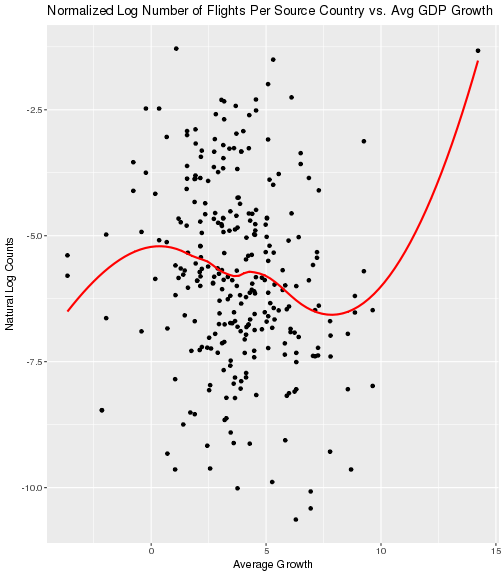
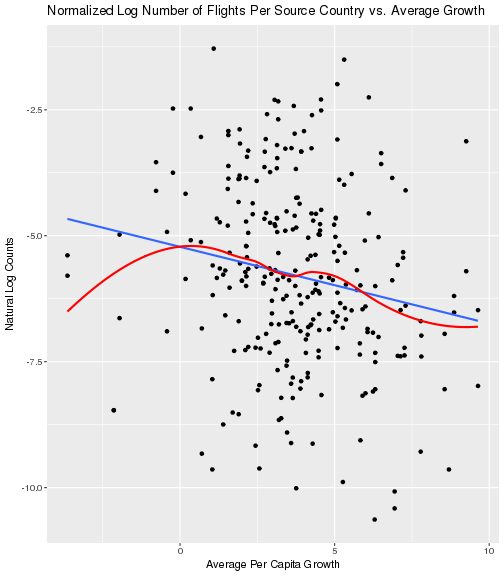
Edits to Presentation

diff --git a/GroupFPresentation.md b/GroupFPresentation.md
@@ -64,23 +64,22 @@ Parametric Regression: log_count ~ avg_growth.x
 ```
 
 Call:
-lm(formula = log_count ~ avg_growth.x, data = normal)
+lm(formula = log_count ~ avg_growth.x, data = normal_minus)
 
 Residuals:
-   Min     1Q Median     3Q    Max 
--4.583 -1.129 -0.130  1.165  5.593 
+    Min      1Q  Median      3Q     Max 
+-4.4549 -1.0849 -0.1135  1.1765  4.5242 
 
 Coefficients:
              Estimate Std. Error t value Pr(>|t|)    
-(Intercept)  -5.35963    0.20967  -25.56   <2e-16 ***
-avg_growth.x -0.10978    0.04732   -2.32   0.0211 *  
+(Intercept)  -5.22043    0.21060 -24.788  < 2e-16 ***
+avg_growth.x -0.15224    0.04834  -3.149  0.00181 ** 
 ---
 Signif. codes:  0 '***' 0.001 '**' 0.01 '*' 0.05 '.' 0.1 ' ' 1
 
-Residual standard error: 1.826 on 279 degrees of freedom
-  (6 observations deleted due to missingness)
-Multiple R-squared:  0.01893,	Adjusted R-squared:  0.01541 
-F-statistic: 5.383 on 1 and 279 DF,  p-value: 0.02106
+Residual standard error: 1.795 on 278 degrees of freedom
+Multiple R-squared:  0.03445,	Adjusted R-squared:  0.03098 
+F-statistic: 9.919 on 1 and 278 DF,  p-value: 0.001814
 ```
 
 Parametric Conditions
@@ -111,14 +110,20 @@ Regression Results and Comparison
 ========================================================
 
 - Conditions met for both Parametric and Non-Parametric regression
-- Both found that `avg_growth.x` was a significant predictor of `log_count` ($p-value = .002 & .0005$)
+- Both found that `avg_growth.x` was a significant predictor of `log_count` ($p-value = .00181 & .0005$)
 - However, both models suggested that `avg_growth.x` explained very little variability in `log_count` ($R^{2} = .034 & .041$)
 - Although `avg_growth.x` is a significant predictor, the model lacks any substantial predicting power.
 
-Conclusion
+Has Travel Increased in Recently Developed Countries?
 ========================================================
 
-Slide With Plot
+Conclusion and Limitations
 ========================================================
 
-![plot of chunk unnamed-chunk-10](GroupFPresentation-figure/unnamed-chunk-10-1.png)
+- Average Per Capita GDP Growth is a significant predictor of the normalized natural log of the number of flights, but lacks any substantial predictive power
+- Second Question Conclusion
+- Third Question and Conclusion
+
+THE END
+========================================================
+
